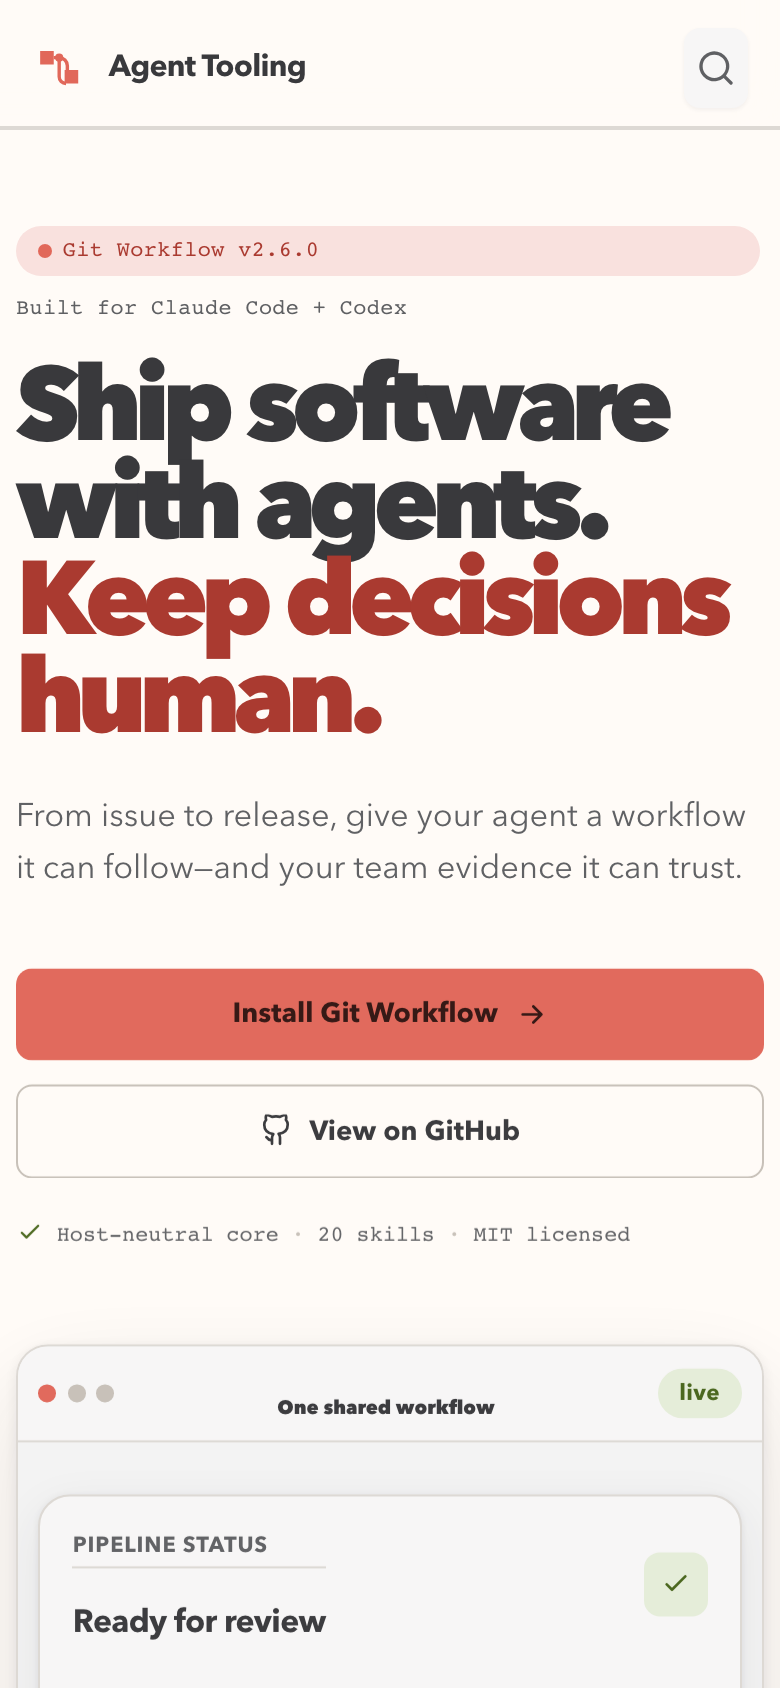
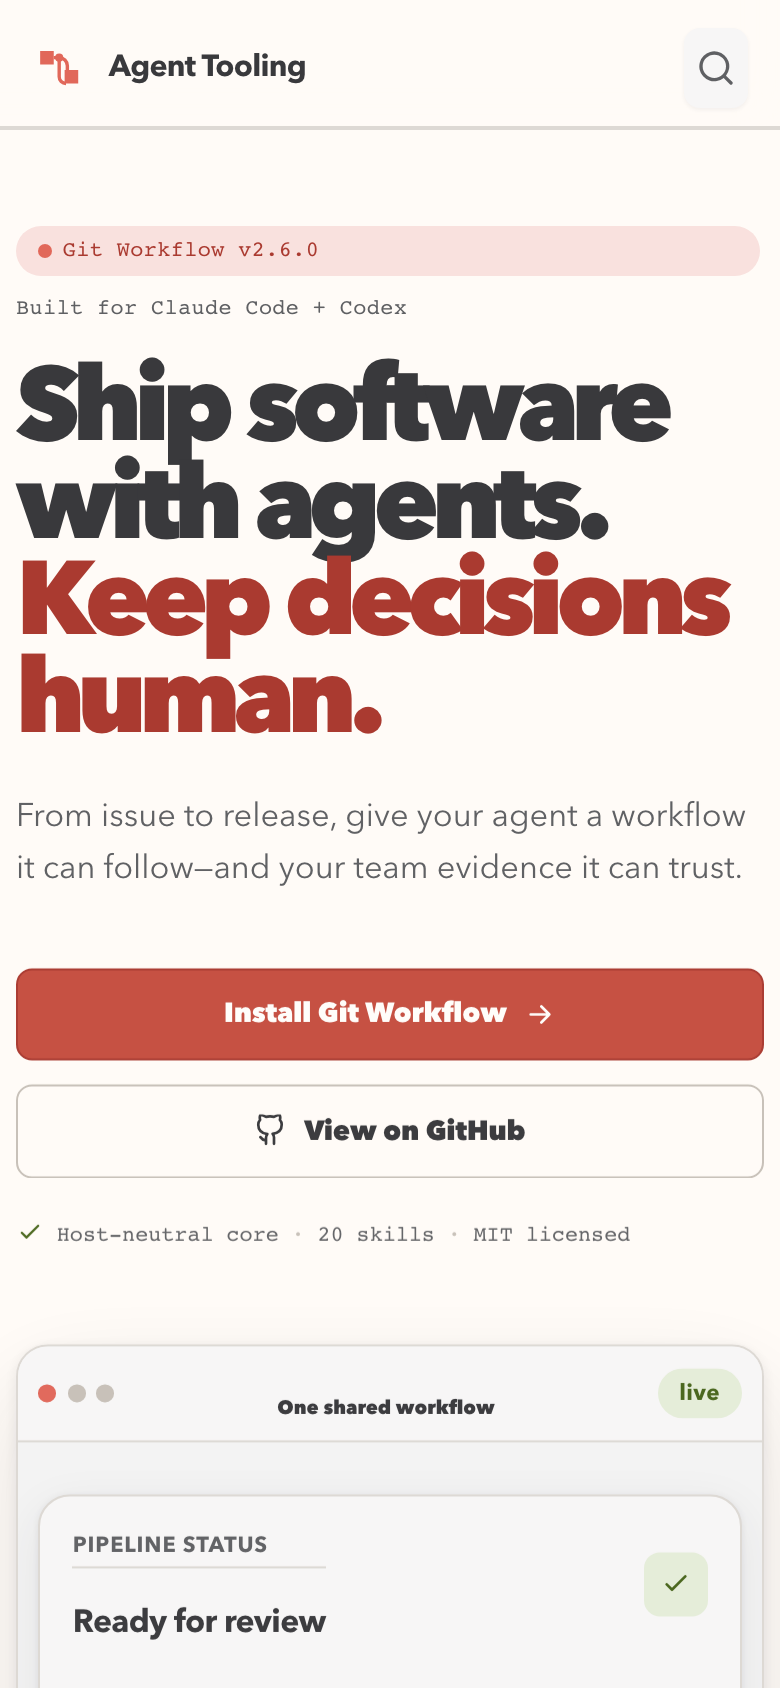
fix: strengthen documentation button contrast

Changed region(s): [[0.0, 0.5545, 0.9846, 0.6777]]

diff --git a/site/src/styles/custom.css b/site/src/styles/custom.css
@@ -18,6 +18,10 @@
   --primary-strong: #aa3a30;
   --primary-foreground: #321512;
   --primary-surface: #f9e1de;
+  --action: #c54e40;
+  --action-hover: #aa3a30;
+  --action-foreground: #fffdfa;
+  --action-border: #aa3a30;
   --secondary: #bbcea8;
   --secondary-hover: #adc179;
   --secondary-strong: #7da339;
@@ -101,6 +105,10 @@
   --primary-strong: #ed9286;
   --primary-foreground: #220c0a;
   --primary-surface: #3f1f20;
+  --action: #e1685a;
+  --action-hover: #ed9286;
+  --action-foreground: #220c0a;
+  --action-border: #ed9286;
   --secondary: #7da339;
   --secondary-hover: #adc179;
   --secondary-strong: #bbcea8;
@@ -367,19 +375,27 @@ site-search dialog {
   cursor: pointer;
   font-family: var(--font-sans);
   font-size: 0.86rem;
-  font-weight: 700;
+  font-weight: 750;
+  letter-spacing: -0.01em;
   padding: 0.65rem 1rem;
   text-decoration: none;
   transition: background-color 150ms var(--ease-out), border-color 150ms var(--ease-out), color 150ms var(--ease-out), transform 150ms var(--ease-out);
 }
 
-.ui-button[data-variant='default'] { background: var(--primary); color: var(--primary-foreground); }
-.ui-button[data-variant='default']:hover { background: var(--primary-hover); color: var(--primary-foreground); }
+.ui-button > svg { flex: 0 0 auto; }
+.ui-button[data-variant='default'] { border-color: var(--action-border); background: var(--action); color: var(--action-foreground); }
+.ui-button[data-variant='default']:hover { border-color: var(--action-hover); background: var(--action-hover); color: var(--action-foreground); }
 .ui-button[data-variant='secondary'] { background: var(--secondary); color: var(--secondary-foreground); }
+.ui-button[data-variant='secondary']:hover { background: var(--secondary-hover); color: var(--secondary-foreground); }
 .ui-button[data-variant='outline'] { border-color: var(--border-strong); background: var(--background); color: var(--foreground); }
-.ui-button[data-variant='outline']:hover, .ui-button[data-variant='ghost']:hover { background: var(--accent); color: var(--accent-foreground); }
+.ui-button[data-variant='outline']:hover { border-color: var(--secondary-strong); background: var(--accent); color: var(--accent-foreground); }
+.ui-button[data-variant='ghost']:hover { background: var(--accent); color: var(--accent-foreground); }
 .ui-button[data-variant='ghost'] { background: transparent; color: var(--foreground); }
+.ui-button[data-variant='link'] { min-height: auto; background: transparent; color: var(--primary-strong); padding: 0; text-decoration: underline; text-underline-offset: 0.22em; }
+.ui-button[data-variant='link']:hover { color: var(--primary-hover); text-decoration-thickness: 2px; }
+.ui-button:focus-visible { outline-width: 3px; outline-offset: 3px; }
 .ui-button:active { transform: translateY(1px); }
+.ui-button:disabled, .ui-button[aria-disabled='true'] { cursor: not-allowed; opacity: 0.55; pointer-events: none; transform: none; }
 .ui-button[data-size='sm'] { min-height: 2.25rem; padding: 0.4rem 0.75rem; }
 .ui-button[data-size='icon'] { width: 2.75rem; padding: 0; }
 

diff --git a/site/tests/site.spec.ts b/site/tests/site.spec.ts
@@ -3,6 +3,18 @@ import { expect, test } from '@playwright/test';
 
 const primaryRoutes = ['/', '/git-workflow/', '/git-workflow/review-watch/'];
 
+function contrastRatio(foreground: string, background: string) {
+  const luminance = (color: string) => {
+    const [red, green, blue] = color.match(/[\d.]+/g)!.slice(0, 3).map(Number).map((channel) => {
+      const value = channel / 255;
+      return value <= 0.04045 ? value / 12.92 : ((value + 0.055) / 1.055) ** 2.4;
+    });
+    return 0.2126 * red + 0.7152 * green + 0.0722 * blue;
+  };
+  const values = [luminance(foreground), luminance(background)].sort((a, b) => b - a);
+  return (values[0] + 0.05) / (values[1] + 0.05);
+}
+
 for (const route of primaryRoutes) {
   test(`${route} has no horizontal overflow`, async ({ page }) => {
     await page.goto(route);
@@ -46,6 +58,26 @@ test('landing hero starts directly below the header without a duplicate navigati
   expect(Math.abs(message!.y - visual!.y)).toBeLessThan(2);
   await expect(page.locator('.product-hero > .runtime-intake')).toHaveCount(0);
   await expect(page.locator('.playground-toolbar .runtime-intake')).toBeVisible();
+});
+
+test('primary call to action maintains AA contrast in every theme and hover state', async ({ page }, testInfo) => {
+  test.skip(testInfo.project.name !== 'desktop', 'One desktop project covers the shared button tokens.');
+
+  for (const theme of ['light', 'dark']) {
+    await page.addInitScript((preference) => localStorage.setItem('starlight-theme', preference), theme);
+    await page.goto('/');
+    const button = page.getByRole('link', { name: 'Install Git Workflow' }).first();
+
+    for (const hovered of [false, true]) {
+      if (hovered) await button.hover();
+      const colors = await button.evaluate((element) => {
+        const style = getComputedStyle(element);
+        return { foreground: style.color, background: style.backgroundColor };
+      });
+      expect(contrastRatio(colors.foreground, colors.background)).toBeGreaterThanOrEqual(4.5);
+      if (hovered) await page.mouse.move(0, 0);
+    }
+  }
 });
 
 test('host quick start supports mouse, keyboard, and copy feedback', async ({ page, context }) => {
